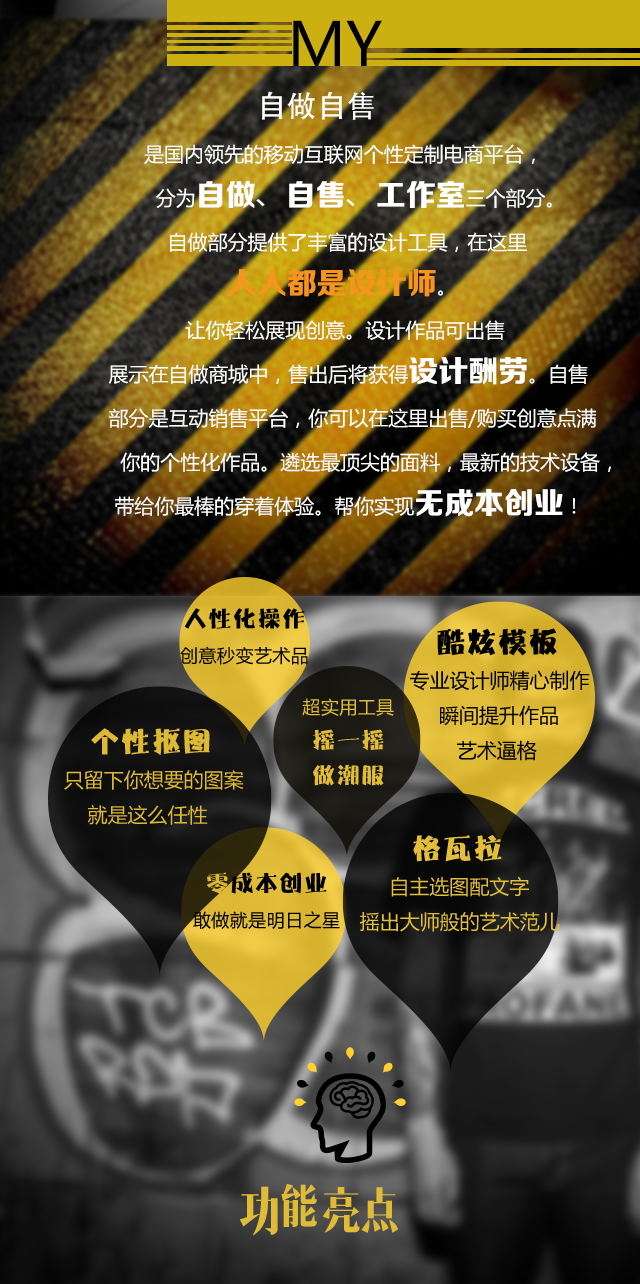
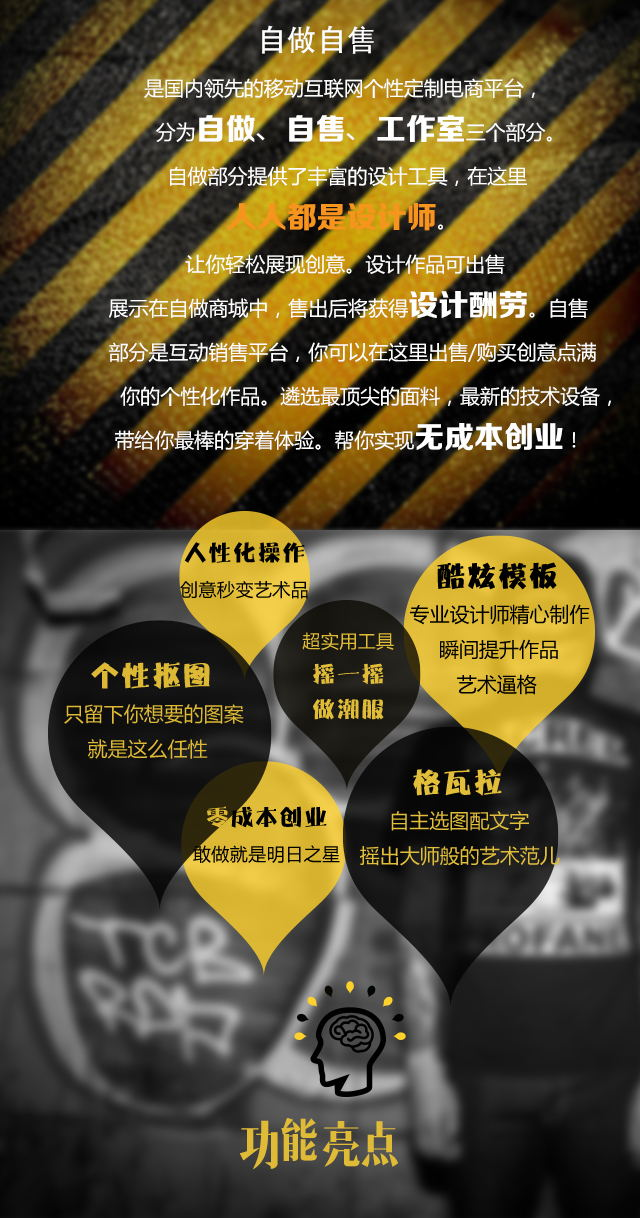
updata classic app_intro image

diff --git a/share/src/pages/share/classic/index.css b/share/src/pages/share/classic/index.css
@@ -119,7 +119,7 @@
 
 .app-intro {
 	width: 640px;
-	height: 1284px;
+	height: 1218px;
 	background-repeat: no-repeat;
     background-size: 100% 100%;
     background-position: center;
